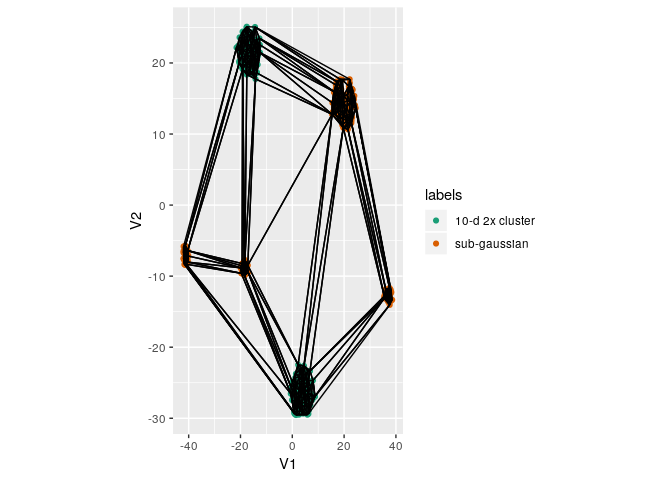
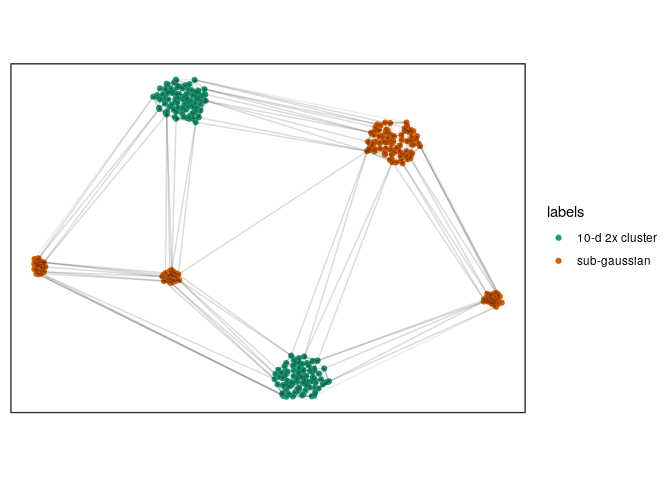
update readme

diff --git a/README.md b/README.md
@@ -28,6 +28,7 @@ We can get a view of the structure using principal components:
 library(ggplot2)
 library(gganimate) # required for printing tours
 library(sneezy)
+theme_set(theme_bw())
 spheres <- subset(multi, key %in% c("A", "D"))
 labels <- ifelse(spheres$key == "A", "sub-gaussian", "10-d 2x cluster")
 spheres <- as.matrix(spheres[, -c(1,2)])
@@ -50,8 +51,12 @@ set.seed(1010010)
 coords <- basic_tsne(spheres, perplexity = 30)
 pl <- ggplot(as.data.frame(coords$Y), aes(V1, V2)) +
   geom_point(aes(colour = labels)) +
-  coord_fixed(asp) +
-  scale_color_brewer(palette = "Dark2")
+  coord_equal() +
+  scale_color_brewer(palette = "Dark2") +
+  theme(axis.title = element_blank(), 
+        axis.ticks = element_blank(), 
+        axis.text = element_blank(),
+        panel.grid = element_blank())
 pl
 ```
 
@@ -70,7 +75,7 @@ sneezy_neighbours(spheres, coords, .subset = 171, col = pal)
 We can also triangulate the points in t-SNE space, and see how that moves via the grand tour.
 
 ``` r
-pl +  add_triangles(coords)
+pl +  add_triangles(coords) 
 ```
 
 <img src="man/figures/README-unnamed-chunk-4-1.png" width="100%" />
@@ -91,7 +96,7 @@ sneezy_centroids(spheres, coords)
 
 <img src="man/figures/README-unnamed-chunk-6-1.gif" width="100%" />
 
-Finally, we can also produce a 'Shephard's plot' comparing distances in the embedding space against the original high-dimensional space"
+Finally, we can also produce a "Shephard's plot" comparing distances in the embedding space against the original high-dimensional space"
 
 ``` r
 sneezy_shep(spheres, coords)
